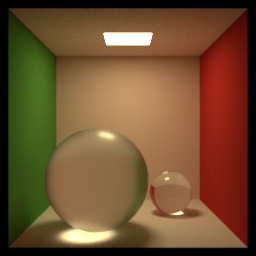
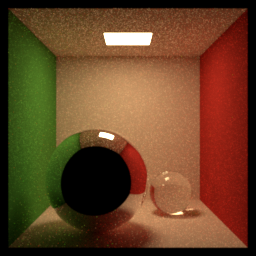
fix pdf_nee not converting to solid angle measure. fix roughconductor flag set Delta. change max_depth and rr_depth variable types from uint32_t to int. fix mis weight calculation functions when one strategy is not used at all. fix nee_weight and bsdf_weight in direct integrator becoming zero. fix b

diff --git a/src/integrators/direct.cpp b/src/integrators/direct.cpp
@@ -23,55 +23,56 @@ public:
 
         Vec3f radiance{0.0};
         // ----------------------- Visible emitters -----------------------
-        
-        if (isc.shape->emitter != nullptr && glm::dot(isc.normal, ray.d) < 0.0)
+
+        if (isc.shape->emitter != nullptr && glm::dot(isc.normal, ray.d) < 0.0 && !hide_emitters)
             radiance += isc.shape->emitter->eval(isc.position);
-            
+
         // ----------------------- Emitter sampling -----------------------
-        
-        Float nee_weight = 1.0 / Float(emitter_samples);
-        if (isc.shape->bsdf->has_flag(BSDFFlags::TwoSided) || glm::dot(isc.normal, isc.dirn) > 0.0 || isc.shape->bsdf->has_flag(BSDFFlags::PassThrough))
-            for (size_t i = 0; i < emitter_samples; i++) {
-                EmitterSample emitter_sample = scene->sample_emitter(isc, sampler->get_1D(), sampler->get_3D());
-                if (emitter_sample.is_visible) {
-                    // TODO: check for correct orientation of isc
-                    
-                    Vec3f wo_local = worldToLocal(-emitter_sample.direction, isc.normal);
-                    Vec3f wi_local = worldToLocal(isc.dirn, isc.normal);
-                    Vec3f bsdf_value = isc.shape->bsdf->eval(wi_local, wo_local);
-                    if (bsdf_value.x < 0.0 || bsdf_value.y < 0.0 || bsdf_value.z < 0.0)
-                        throw std::runtime_error("BSDF eval returned non-positive value in DirectLightingIntegrator");
-                
-                    Float mis_weight = get_mis_weight_nee(isc, emitter_sample);
-                    radiance += mis_weight * nee_weight * emitter_sample.radiance * bsdf_value / emitter_sample.pdf;
+
+        Float nee_weight = emitter_samples > 0 ? 1.0 / Float(emitter_samples) : 0.0;
+        if (!isc.shape->bsdf->has_flag(BSDFFlags::Delta)) {
+            if (isc.shape->bsdf->has_flag(BSDFFlags::TwoSided) || glm::dot(isc.normal, isc.dirn) > 0.0 || isc.shape->bsdf->has_flag(BSDFFlags::PassThrough))
+                for (size_t i = 0; i < emitter_samples; i++) {
+                    EmitterSample emitter_sample = scene->sample_emitter(isc, sampler->get_1D(), sampler->get_3D());
+                    if (emitter_sample.is_visible) {
+                        Vec3f wo_local = worldToLocal(-emitter_sample.direction, isc.normal);
+                        Vec3f wi_local = worldToLocal(isc.dirn, isc.normal);
+                        Vec3f bsdf_value = isc.shape->bsdf->eval(wi_local, wo_local);
+                        if (bsdf_value.x < 0.0 || bsdf_value.y < 0.0 || bsdf_value.z < 0.0)
+                            throw std::runtime_error("BSDF eval returned non-positive value in DirectLightingIntegrator");
+
+                        Float mis_weight = get_mis_weight_nee(isc, emitter_sample, bsdf_samples);
+                        radiance += mis_weight * nee_weight * emitter_sample.radiance * bsdf_value / emitter_sample.pdf;
+                    }
                 }
-            }
+        }
 
         // ------------------------ BSDF sampling -------------------------
-        
-        Float bsdf_weight = 1.0 / Float(bsdf_samples);
-        for (size_t i = 0; i < bsdf_samples; i++) {
-            auto [bsdf_sample, bsdf_value] = isc.shape->bsdf->sample(worldToLocal(isc.dirn, isc.normal), sampler->get_1D(), sampler->get_2D());
-            if (bsdf_value.x < 0.0 || bsdf_value.y < 0.0 || bsdf_value.z < 0.0)
-                throw std::runtime_error("BSDF sample returned non-positive value in DirectLightingIntegrator");
-            if (bsdf_sample.pdf < 0.0)
-                throw std::runtime_error("BSDF sample returned negative pdf in DirectLightingIntegrator");
-            
-            // check if the sample intersects any light
-            Intersection tmp_isc{};
-            bool is_occluded = scene->ray_intersect(Ray{isc.position + sign(glm::dot(localToWorld(bsdf_sample.wo, isc.normal), isc.normal)) * isc.normal * Epsilon, localToWorld(bsdf_sample.wo, isc.normal), Epsilon, 1e4}, tmp_isc);
-            if (!is_occluded ||
-                tmp_isc.shape->emitter == nullptr ||
-                dot(isc.position - tmp_isc.position, tmp_isc.normal) < 0 ||
-                bsdf_sample.pdf <= 0)
-                continue;
 
-            Float mis_weight = get_mis_weight_bsdf(scene, isc, bsdf_sample);
-            radiance += mis_weight * bsdf_weight * tmp_isc.shape->emitter->eval(isc.position) * bsdf_value / bsdf_sample.pdf;
+        Float bsdf_weight = bsdf_samples > 0 ? 1.0 / Float(bsdf_samples) : 0.0;
+        if (isc.shape->bsdf->has_flag(BSDFFlags::TwoSided) || glm::dot(isc.normal, isc.dirn) > 0.0 || isc.shape->bsdf->has_flag(BSDFFlags::PassThrough)) {
+            for (size_t i = 0; i < bsdf_samples; i++) {
+                auto [bsdf_sample, bsdf_value] = isc.shape->bsdf->sample(worldToLocal(isc.dirn, isc.normal), sampler->get_1D(), sampler->get_2D());
+                if (bsdf_sample.pdf < 0.0 || bsdf_value.x < 0.0 || bsdf_value.y < 0.0 || bsdf_value.z < 0.0)
+                    throw std::runtime_error("damn. pdf: " + std::to_string(bsdf_sample.pdf) + ", bsdf_value: " + std::to_string(bsdf_value.x) + ", " + std::to_string(bsdf_value.y) + ", " + std::to_string(bsdf_value.z));
+                if (bsdf_sample.pdf <= Epsilon || glm::length(bsdf_value) <= Epsilon)
+                    continue;
+
+                // check if the sample intersects any light
+                Intersection tmp_isc{};
+                bool is_occluded = scene->ray_intersect(Ray{isc.position + sign(glm::dot(localToWorld(bsdf_sample.wo, isc.normal), isc.normal)) * isc.normal * Epsilon, localToWorld(bsdf_sample.wo, isc.normal), Epsilon, 1e4}, tmp_isc);
+                if (!is_occluded ||
+                    tmp_isc.shape->emitter == nullptr ||
+                    dot(isc.position - tmp_isc.position, tmp_isc.normal) < 0)
+                    continue;
+
+                Float mis_weight = get_mis_weight_bsdf(scene, isc, bsdf_sample, emitter_samples);
+                radiance += mis_weight * bsdf_weight * tmp_isc.shape->emitter->eval(isc.position) * bsdf_value / bsdf_sample.pdf;
+            }
         }
 
         // ----------------------------------------------------------------
-        
+
         return radiance;
     }
 
@@ -102,7 +103,7 @@ Integrator *createDirectLightingIntegrator(const std::unordered_map<std::string,
             throw std::runtime_error("Unknown property '" + key + "' for Direct Lighting integrator");
         }
     }
-    
+
     return new DirectLightingIntegrator(emitter_samples, bsdf_samples, hide_emitters);
 }
 

diff --git a/src/integrators/path.cpp b/src/integrators/path.cpp
@@ -13,23 +13,30 @@ public:
     PathTracerIntegrator(int max_depth, int rr_depth, bool hide_emitters) : MonteCarloIntegrator(max_depth, rr_depth), hide_emitters(hide_emitters) {}
 
     Vec3f sample_radiance(const Scene *scene, Sampler *sampler, const Ray &ray, int row, int col) const override {
+        if (max_depth == 0)
+            return Vec3f{0.0};
+        if (max_depth < -1)
+            throw std::runtime_error("max_depth must be -1 (infinite) or a non-negative integer");
+        
         Vec3f throughput{1.0};
         Vec3f radiance{0.0};
 
         Ray curr_ray = ray;
         Intersection curr_isc;
         bool is_hit = scene->ray_intersect(curr_ray, curr_isc);
-        for (int depth = 0; depth < max_depth || max_depth < 0; depth++) {
+
+        // ----------------------- Visible emitters -----------------------
+        if (!is_hit)
+            return Vec3f{0.0};  // TODO: implement environment light sampling
+        if (curr_isc.shape->emitter && glm::dot(curr_isc.normal, curr_isc.dirn) > 0.0)
+            radiance += throughput * curr_isc.shape->emitter->eval(curr_isc.position);
+
+        for (int depth = 1; depth < max_depth || max_depth == -1; depth++) {
             if (!is_hit)  // TODO: implement environment light sampling
                 break;
 
-            // ----------------------- Visible emitters -----------------------
-
-            if (depth == 0 && curr_isc.shape->emitter && glm::dot(curr_isc.normal, curr_isc.dirn) > 0.0)
-                radiance += throughput * curr_isc.shape->emitter->eval(curr_isc.position);
-
             // ----------------------- Emitter sampling -----------------------
-            
+
             if (!curr_isc.shape->bsdf->has_flag(BSDFFlags::Delta)) {
                 if (curr_isc.shape->bsdf->has_flag(BSDFFlags::TwoSided) || glm::dot(curr_isc.normal, curr_isc.dirn) > 0.0 || curr_isc.shape->bsdf->has_flag(BSDFFlags::PassThrough)) {
                     EmitterSample emitter_sample = scene->sample_emitter(curr_isc, sampler->get_1D(), sampler->get_3D());
@@ -37,8 +44,10 @@ public:
                         Vec3f wo_local = worldToLocal(-emitter_sample.direction, curr_isc.normal);
                         Vec3f wi_local = worldToLocal(curr_isc.dirn, curr_isc.normal);
                         Vec3f bsdf_value = curr_isc.shape->bsdf->eval(wi_local, wo_local);
+                        if (bsdf_value.x < 0.0 || bsdf_value.y < 0.0 || bsdf_value.z < 0.0)
+                            throw std::runtime_error("BSDF eval returned non-positive value in DirectLightingIntegrator");
 
-                        Float mis_weight = get_mis_weight_nee(curr_isc, emitter_sample);
+                        Float mis_weight = get_mis_weight_nee(curr_isc, emitter_sample, 1);
                         radiance += mis_weight * throughput * emitter_sample.radiance * bsdf_value / emitter_sample.pdf;
                     }
                 }
@@ -52,7 +61,7 @@ public:
             if (bsdf_sample.pdf <= Epsilon || glm::length(bsdf_value) <= Epsilon)
                 break;
 
-            Float mis_weight = get_mis_weight_bsdf(scene, curr_isc, bsdf_sample);
+            Float mis_weight = get_mis_weight_bsdf(scene, curr_isc, bsdf_sample, 1);
             throughput *= mis_weight * bsdf_value / bsdf_sample.pdf;
 
             curr_ray = Ray{curr_isc.position + sign(glm::dot(localToWorld(bsdf_sample.wo, curr_isc.normal), curr_isc.normal)) * curr_isc.normal * Epsilon, localToWorld(bsdf_sample.wo, curr_isc.normal), Epsilon, 1e4};

diff --git a/src/core/Integrator.cpp b/src/core/Integrator.cpp
@@ -26,7 +26,7 @@ void SamplingIntegrator::render(const Scene *scene, Sensor *sensor, uint32_t n_t
             break;
         for (int col = 0; col < width; col++) {
             // TODO: debug
-            if (row != 109 || col != 62)
+            if (row != 19 || col != 187)
                 continue;
             for (size_t i = 0; i < sensor->sampler.spp; i++) {
                 Float px, py;
@@ -98,11 +98,11 @@ void SamplingIntegrator::render(const Scene *scene, Sensor *sensor, uint32_t n_t
 
     auto end_time = std::chrono::high_resolution_clock::now();
     std::chrono::duration<double> elapsed = end_time - start_time;
-    std::cout << "Rendering completed in " << elapsed.count() << " seconds.";
+    std::cout << "Rendering completed in " << std::format("{:.02f}", elapsed.count()) << " seconds.";
 }
 
-Float SamplingIntegrator::get_mis_weight_nee(const Intersection &isc, const EmitterSample &emitter_sample) const {
-    if ((emitter_sample.emitter_flags & EmitterFlags::DELTA_DIRECTION) != EmitterFlags::NONE)
+Float SamplingIntegrator::get_mis_weight_nee(const Intersection &isc, const EmitterSample &emitter_sample, uint32_t n_bsdf_samples) const {
+    if ((emitter_sample.emitter_flags & EmitterFlags::DELTA_DIRECTION) != EmitterFlags::NONE || n_bsdf_samples == 0)
         return 1.0;
     if (!isc.shape->bsdf->has_flag(BSDFFlags::Delta)) {
         Vec3f wi_local = worldToLocal(isc.dirn, isc.normal);
@@ -117,10 +117,12 @@ Float SamplingIntegrator::get_mis_weight_nee(const Intersection &isc, const Emit
     return 0.0;
 }
 
-Float SamplingIntegrator::get_mis_weight_bsdf(const Scene *scene, const Intersection &isc, const BSDFSample &bsdf_sample) const {
-    if (isc.shape->bsdf->has_flag(BSDFFlags::Delta))
+Float SamplingIntegrator::get_mis_weight_bsdf(const Scene *scene, const Intersection &isc, const BSDFSample &bsdf_sample, uint32_t n_emitter_samples) const {
+    if (isc.shape->bsdf->has_flag(BSDFFlags::Delta) || n_emitter_samples == 0)
         return 1.0;
     Float nee_pdf = scene->pdf_nee(isc, localToWorld(bsdf_sample.wo, isc.normal));
+    if (nee_pdf <= Epsilon)
+        return 1.0;
     if (nee_pdf < 0.0)
         throw std::runtime_error("Negative NEE pdf in MIS weight computation");
 

diff --git a/src/core/Scene.cpp b/src/core/Scene.cpp
@@ -99,9 +99,9 @@ void Scene::load_shapes(const std::vector<ShapeDesc*> shapes_desc, const std::un
 
             std::vector<Vec3f*> vertices;
             vertices.push_back(new Vec3f{-1.0, -1.0, 0.0});
-            vertices.push_back(new Vec3f{-1.0,  1.0, 0.0});
-            vertices.push_back(new Vec3f{ 1.0, -1.0, 0.0});
-            vertices.push_back(new Vec3f{ 1.0,  1.0, 0.0});
+            vertices.push_back(new Vec3f{-1.0, 1.0, 0.0});
+            vertices.push_back(new Vec3f{1.0, -1.0, 0.0});
+            vertices.push_back(new Vec3f{1.0, 1.0, 0.0});
             auto it = shape_desc->properties.find("to_world");
             if (it != shape_desc->properties.end()) {
                 auto to_world = strToMat4f(it->second);
@@ -110,7 +110,7 @@ void Scene::load_shapes(const std::vector<ShapeDesc*> shapes_desc, const std::un
             }
             shape->geometries.push_back(GeometryRegistry::createGeometry("triangle", properties, shape, new GeometryCreationContext{vertices[0], vertices[2], vertices[1]}));
             shape->geometries.push_back(GeometryRegistry::createGeometry("triangle", properties, shape, new GeometryCreationContext{vertices[3], vertices[1], vertices[2]}));
-        
+
         } else {
             throw std::runtime_error("Unsupported shape type: " + shape_desc->type);
         }
@@ -353,6 +353,15 @@ Float Scene::pdf_nee(const Intersection& isc, const Vec3f& w) const {
     Float pdf = 1.0 / emitters.size();
     pdf /= traced_isc.shape->geometries.size();
     pdf /= traced_isc.geom->area();
+
+    // convert to solid angle measure
+    Float distance_sqrd = glm::length(traced_isc.position - isc.position);
+    distance_sqrd *= distance_sqrd;
+    Float abs_cos_theta = std::abs(glm::dot(traced_isc.normal, w));
+    if (abs_cos_theta <= Epsilon)
+        return 0.0;
+    pdf *= distance_sqrd / abs_cos_theta;
+    
     return pdf;
 }
 

diff --git a/src/core/Integrator.h b/src/core/Integrator.h
@@ -18,18 +18,18 @@ public:
     virtual Vec3f sample_radiance(const Scene *scene, Sampler *sampler, const Ray &ray, int row, int col) const = 0;
 
     /// @brief finds the MIS weight for the NEE
-    virtual Float get_mis_weight_nee(const Intersection &isc, const EmitterSample &emitter_sample) const;
+    virtual Float get_mis_weight_nee(const Intersection &isc, const EmitterSample &emitter_sample, uint32_t n_bsdf_samples) const;
 
     /// @brief finds the MIS weight for the BSDF sampling
-    virtual Float get_mis_weight_bsdf(const Scene *scene, const Intersection &isc, const BSDFSample &bsdf_sample) const;
+    virtual Float get_mis_weight_bsdf(const Scene *scene, const Intersection &isc, const BSDFSample &bsdf_sample, uint32_t n_emitter_samples) const;
 };
 
 class MonteCarloIntegrator : public SamplingIntegrator {
 protected:
-    uint32_t max_depth;
+    int max_depth;
     // depth to start Russian roulette. refer to mitsuba3 documentation for more details.
-    uint32_t rr_depth;
+    int rr_depth;
 
 public:
-    MonteCarloIntegrator(uint32_t max_depth, uint32_t rr_depth) : max_depth(max_depth), rr_depth(rr_depth) {};
+    MonteCarloIntegrator(int max_depth, int rr_depth) : max_depth(max_depth), rr_depth(rr_depth) {};
 };

diff --git a/src/utils/SceneParser.h b/src/utils/SceneParser.h
@@ -163,6 +163,7 @@ struct ShapeDesc : public SceneObjectDesc {
 
     ShapeDesc() {
         properties["to_world"] = mat4fToStr(Mat4f{1.0});
+        properties["inv_to_world"] = mat4fToStr(Mat4f{1.0});
     }
 
     std::string to_string() override {
@@ -488,8 +489,7 @@ private:
             } else if (child_name == "transform") {
                 auto [transform, inv_transform] = parseTransform(child);
                 properties[name] = mat4fToStr(transform);
-                if (properties.contains("inv_" + name))
-                    throw std::runtime_error("Both " + name + " and inv_" + name + " are specified in the same transform block.");
+                // TODO: what if both name and inv_name are in the properties???
                 properties["inv_" + name] = mat4fToStr(inv_transform);
             } else {
                 throw std::runtime_error(std::string("Unknown property type: ") + child_name);

diff --git a/src/geometry/triangle.cpp b/src/geometry/triangle.cpp
@@ -98,7 +98,7 @@ Geometry *createTriangle(const std::unordered_map<std::string, std::string> &pro
             face_normals = (value == "true" || value == "1");
         } else if (key == "flip_normals") {
             flip_normals = (value == "true" || value == "1");
-        }else if (key == "to_world") {
+        } else if (key == "to_world" || key == "inv_to_world") {
             // ignore. handled in Shape            
         } else {
             throw std::runtime_error("Unknown property '" + key + "' for triangle geometry.");

diff --git a/src/geometry/sphere.cpp b/src/geometry/sphere.cpp
@@ -119,10 +119,7 @@ public:
             cos(theta)};
         Vec3f position = center + radius * normal;
         position = Vec3f{transform * Vec4f{position, 1.0}};
-        // calculate the true radius
-        Vec3f scaled_x = transform * Vec4f{1, 0, 0, 0};
-        Float R = radius * glm::length(scaled_x);
-        Float pdf = 1.0 / (4.0 * Pi * Sqr(R));
+        Float pdf = 1.0 / (4.0 * Pi * Sqr(radius_world));
 
         return {position, get_normal(position), pdf};
     }

diff --git a/src/lights/area.cpp b/src/lights/area.cpp
@@ -39,7 +39,8 @@ public:
             bool is_hit = scene->ray_intersect(shadow_ray, tmp_isc);
             if (is_hit) {
                 // might be a false positive
-                if (tmp_isc.shape != shape || glm::length(tmp_isc.position - position) >= Epsilon)
+                // TODO: make this more robust
+                if (tmp_isc.shape != shape || glm::length(tmp_isc.position - position) >= 1e-2)
                     is_valid = false;
             }
         }

diff --git a/src/core/Scene.h b/src/core/Scene.h
@@ -13,7 +13,7 @@ class Scene {
 private:
     std::vector<Shape *> shapes{};
     BVHNode *bvh_root = nullptr;
-    AccelerationType accel_type = AccelerationType::NONE;
+    AccelerationType accel_type = AccelerationType::BVH;
     std::vector<Emitter *> emitters{};
 
     std::unordered_map<BSDFDesc *, BSDF *> load_bsdfs(const std::vector<BSDFDesc *> &bsdfs_desc);

diff --git a/src/bsdf/roughconductor.cpp b/src/bsdf/roughconductor.cpp
@@ -75,7 +75,7 @@ BSDF *createRoughConductorBSDF(const std::unordered_map<std::string, std::string
 
     Vec3f eta{0.0, 0.0, 0.0};
     Vec3f k{1.0, 1.0, 1.0};
-    BSDFFlags flags = BSDFFlags::Delta;
+    BSDFFlags flags = BSDFFlags::None;
     std::string distribution = "beckmann";
     Float alpha_u = 0.1, alpha_v = 0.1;
 

diff --git a/TODO.md b/TODO.md
@@ -6,6 +6,7 @@
 **TODO:**
 
 Urgent:
+ - add adaptive position based cosine weighted sampling
  - implement textures
  - Implement a logger with several log-levels
  - possible bug in BVH build (AABB of flat surfaces might be too thin)
